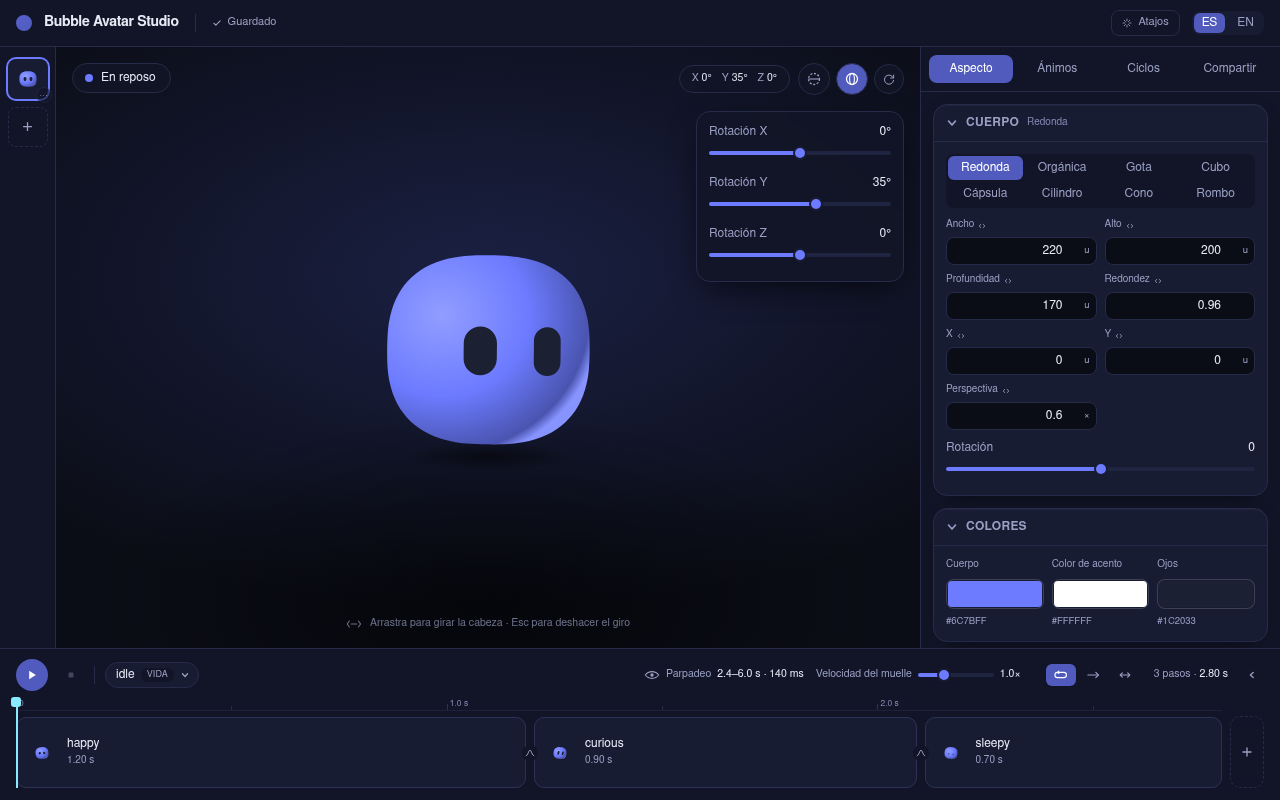
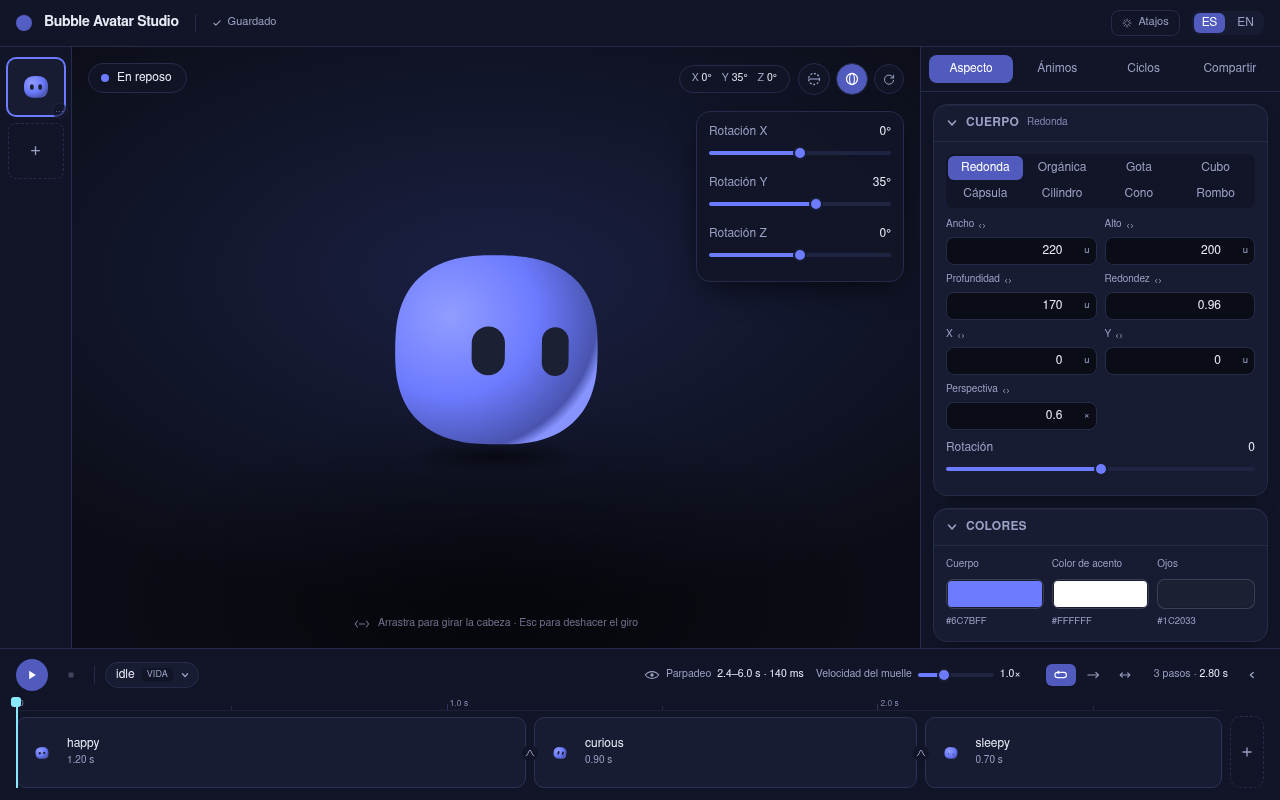
Give the rail's thumbnails room to be read (docs/05 §1)
The rail was 72px of column around a 40px mini-render, which is a thumbnail
small enough that two bubbles with different bodies read as the same smudge.
The thumbnail is now 56px and the column 72px — sized off the render rather
than the other way round, keeping the same 8px gutter either side that the
56/40 pair had. The `+` button matches it, so the column stays one width all
the way down.

At 1024 the shell still holds: 72 + 360 leaves ~590px of stage, and the
narrow-window scenario's floor of 500px is untouched.

The rail scenario now measures both numbers in the browser, because a Tailwind
class is not a width until something lays it out — and jsdom never will. It
was watched failing at 56/40 before the change. docs/05 §1 states the new
sizes; the roadmap's P4 line says which one it recorded at the time.

Frames re-archived: every one carries the rail.

diff --git a/src/app/studio/BubbleRail.tsx b/src/app/studio/BubbleRail.tsx
@@ -1,4 +1,4 @@
-// Bubble rail (docs/05 §1): a 56px column of live mini-renders, the active one
+// Bubble rail (docs/05 §1): a 72px column of live mini-renders, the active one
 // highlighted, `+` at the bottom, and a per-bubble context menu carrying
 // rename, duplicate, move up/down and delete-with-confirm.
 import { useMemo, useState } from "react";
@@ -17,8 +17,13 @@ export interface BubbleRailProps {
   t: (k: MessageKey) => string;
 }
 
-/** Rendered size of a rail thumbnail, in px. */
-const THUMB = 40;
+/**
+ * Rendered size of a rail thumbnail, in px. The rail is 72px and the thumb
+ * 56px, so the 8px of margin either side is the same gutter the 56/40 pair
+ * had — the column grew because the mini-render is the thing being read, not
+ * because it needed more air.
+ */
+const THUMB = 56;
 
 export function BubbleRail({
   bubbles,
@@ -38,7 +43,7 @@ export function BubbleRail({
   return (
     <nav
       aria-label={t("rail.bubbles")}
-      className="flex w-14 shrink-0 flex-col items-center gap-2 border-r border-line bg-panel py-3"
+      className="flex w-18 shrink-0 flex-col items-center gap-2 border-r border-line bg-panel py-3"
     >
       <ul className="flex w-full flex-col items-center gap-2">
         {bubbles.map((b, i) => (
@@ -71,7 +76,7 @@ export function BubbleRail({
         onClick={() => {
           dispatch({ type: "bubble/add", name: "Bubble" });
         }}
-        className="grid h-10 w-10 shrink-0 place-items-center rounded-field border border-dashed border-line text-lg leading-none text-ink-dim transition-colors duration-150 ease-out hover:border-primary hover:text-ink"
+        className="grid h-14 w-14 shrink-0 place-items-center rounded-field border border-dashed border-line text-lg leading-none text-ink-dim transition-colors duration-150 ease-out hover:border-primary hover:text-ink"
       >
         +
       </button>
@@ -135,7 +140,7 @@ function RailItem({
           e.preventDefault();
           onToggleMenu();
         }}
-        className={`grid h-10 w-10 place-items-center overflow-hidden rounded-field bg-panel-2 transition-shadow duration-150 ease-out ${
+        className={`grid h-14 w-14 place-items-center overflow-hidden rounded-field bg-panel-2 transition-shadow duration-150 ease-out ${
           active
             ? "ring-2 ring-brand"
             : "opacity-70 ring-1 ring-line hover:opacity-100"

diff --git a/e2e/smoke.spec.ts b/e2e/smoke.spec.ts
@@ -95,6 +95,18 @@ test("rail: the context menu carries rename, reorder and delete", async ({
   page,
 }) => {
   await page.goto("/");
+
+  // docs/05 §1 states the rail's width as a number, so measure it where a
+  // number can be measured: jsdom has no answer for a Tailwind class.
+  const rail = await page.getByLabel("Burbujas").boundingBox();
+  expect(rail?.width).toBe(72);
+  const thumb = await page
+    .getByLabel("Burbujas")
+    .locator("li button")
+    .first()
+    .boundingBox();
+  expect(thumb?.width).toBe(56);
+
   await page.getByRole("button", { name: "Acciones de la burbuja" }).click();
   const menu = page.getByRole("menu");
   await expect(menu.getByRole("menuitem", { name: "Duplicar" })).toBeVisible();
@@ -232,8 +244,8 @@ test("drag-to-reorder: a mood card dropped on another moves it (FR-4.2)", async 
 /**
  * The track crosses the whole width and its first row is a lot of controls in
  * a line, so a narrow window is where it would break first. 1024×720 is the
- * smallest the studio claims to work at (docs/05 §1: a 56px rail and a 360px
- * inspector leave ~600px of stage).
+ * smallest the studio claims to work at (docs/05 §1: a 72px rail and a 360px
+ * inspector leave ~590px of stage).
  */
 test("narrow window: the shell holds together at 1024×720", async ({
   page,

diff --git a/docs/05-ui-design.md b/docs/05-ui-design.md
@@ -8,9 +8,9 @@
 > today; **[target]** ones do not yet, and are tracked as roadmap P4. Do not
 > read an unmarked sentence as a claim about what runs.
 >
-> The rail and inspector now ship at the documented sizes (56px / 360px,
-> `w-14` / `w-90`); an earlier note here recorded them as 176px and 288px,
-> which the P4 UI pass closed.
+> The rail and inspector ship at the sizes below (72px / 360px, `w-18` /
+> `w-90`); an earlier note here recorded them as 176px and 288px, which the P4
+> UI pass closed, and the rail was 56px until its thumbnails were enlarged.
 >
 > **The F5 visual pass has been read** against a fresh `pnpm e2e` archive
 > (eleven frames under `docs/screenshots/`). §1–§4 hold as described, with one
@@ -58,8 +58,12 @@
 └─────────────────────────────────────────────────────────────────┘
 ```
 
-- **Rail (56px):** vertical bubble thumbnails (live mini-renders), active
-  highlighted, `+` at bottom. Context menu (right-click / kebab): rename,
+- **Rail (72px):** vertical bubble thumbnails (live mini-renders) at 56px,
+  active highlighted, `+` at bottom. The column is sized off the thumbnail
+  rather than the other way round: the mini-render is the thing being read, so
+  it takes the width and leaves the same 8px gutter either side the narrower
+  56/40 pair had. Measured in the browser by the rail smoke scenario, because
+  a Tailwind class is not a width until something lays it out. Context menu (right-click / kebab): rename,
   duplicate, move up/down, delete (confirm).
   **[built]** all of the above: the list with live mini-render thumbnails,
   active highlight, add, and a per-bubble context menu (kebab or right-click)

diff --git a/docs/08-roadmap.md b/docs/08-roadmap.md
@@ -144,7 +144,8 @@ landed in F5.
   thumbnails with rename/duplicate/reorder/delete (FR-1.2, FR-1.4), loop
   duplicate and the accessible ↑ ↓ step reorder (FR-5.2, FR-5.5), mood
   duplicate, collapsible inspector cards on shared tokens, and the rail and
-  inspector at their documented 56px / 360px.
+  inspector at their then-documented 56px / 360px (the rail is 72px now — see
+  docs/05 §1).
 
   The completion pass closed the rest:
 
